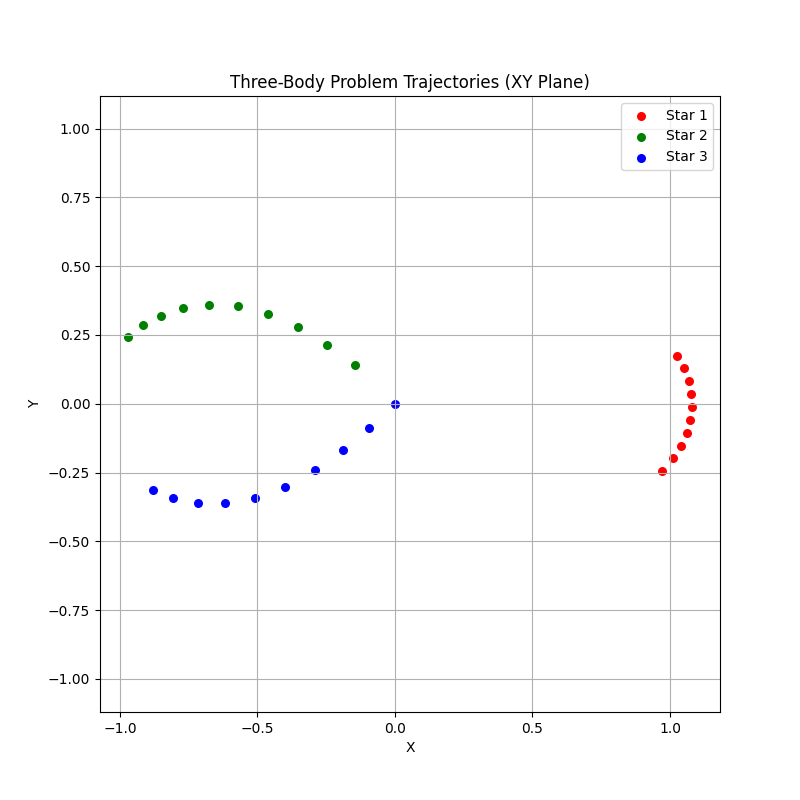
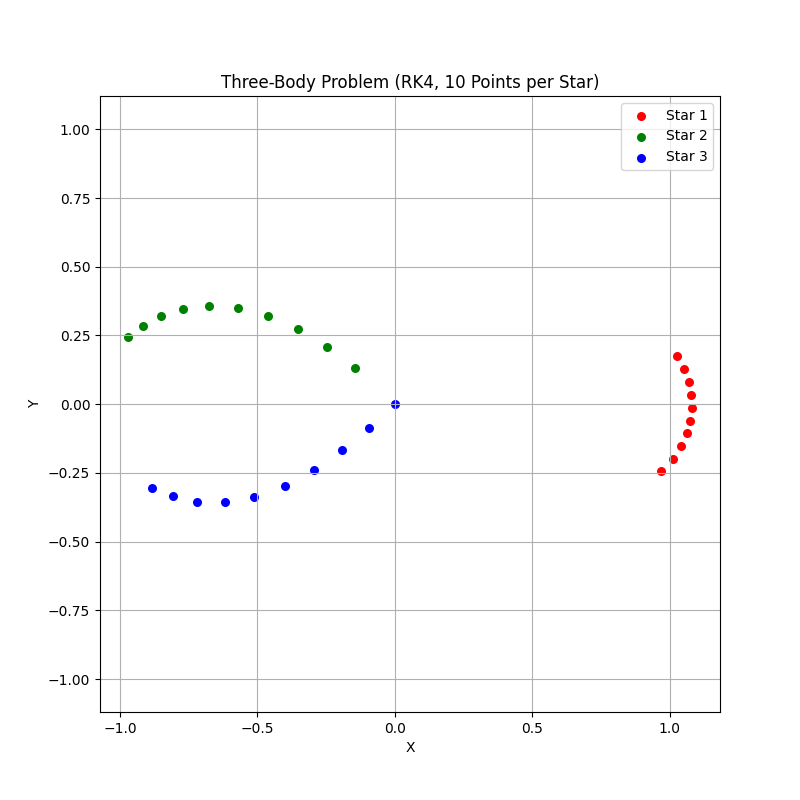
remake to calc by rk4

diff --git a/test_calc.py b/test_calc.py
@@ -23,29 +23,29 @@ def calculate_acceleration(positions, masses, G=1.0):
                 
     return acceleration
 
-def symplectic_step(positions, velocities, masses, dt, G=1.0):
+def rk4_step(positions, velocities, masses, dt, G=1.0):
     """
-    Velocity Verlet法（2次シンプレクティック積分）を用いて、dt秒後の位置と速度を計算します。
-    positions: (N, 3) の配列
-    velocities: (N, 3) の配列
-    masses: (N,) の配列
-    dt: タイムステップ (秒)
-    G: 万有引力定数
+    4次ルンゲ＝クッタ法(RK4)を用いて、dt秒後の位置と速度を計算します。
     """
-    # 1. 現在の加速度を計算
-    acc_t = calculate_acceleration(positions, masses, G)
+    def compute_derivatives(p, v):
+        a = calculate_acceleration(p, masses, G)
+        return v, a
+
+    # k1
+    v1, a1 = compute_derivatives(positions, velocities)
     
-    # 2. 速度を半ステップ進める: v(t + dt/2) = v(t) + a(t) * dt/2
-    velocities_half = velocities + acc_t * (dt / 2.0)
+    # k2
+    v2, a2 = compute_derivatives(positions + v1 * dt / 2, velocities + a1 * dt / 2)
     
-    # 3. 位置を全ステップ進める: q(t + dt) = q(t) + v(t + dt/2) * dt
-    next_positions = positions + velocities_half * dt
+    # k3
+    v3, a3 = compute_derivatives(positions + v2 * dt / 2, velocities + a2 * dt / 2)
     
-    # 4. 新しい位置での加速度を計算: a(t + dt)
-    acc_next = calculate_acceleration(next_positions, masses, G)
+    # k4
+    v4, a4 = compute_derivatives(positions + v3 * dt, velocities + a3 * dt)
     
-    # 5. 速度をさらに半ステップ進める: v(t + dt) = v(t + dt/2) + a(t + dt) * dt/2
-    next_velocities = velocities_half + acc_next * (dt / 2.0)
+    # 次のステップを計算
+    next_positions = positions + (dt / 6.0) * (v1 + 2*v2 + 2*v3 + v4)
+    next_velocities = velocities + (dt / 6.0) * (a1 + 2*a2 + 2*a3 + a4)
     
     return next_positions, next_velocities
 
@@ -79,7 +79,7 @@ if __name__ == "__main__":
     # シミュレーション実行
     curr_p, curr_v = positions, velocities
     for _ in range(total_steps - 1):
-        curr_p, curr_v = symplectic_step(curr_p, curr_v, masses, dt)
+        curr_p, curr_v = rk4_step(curr_p, curr_v, masses, dt)
         history.append(curr_p.copy())
     
     history = np.array(history) # (steps, bodies, coordinates)
@@ -93,7 +93,7 @@ if __name__ == "__main__":
         # 軌跡（線）ではなく、点を描画
         plt.scatter(history[:, i, 0], history[:, i, 1], color=colors[i], label=labels[i], s=30)
 
-    plt.title("Three-Body Problem Trajectories (XY Plane)")
+    plt.title("Three-Body Problem (RK4, 10 Points per Star)")
     plt.xlabel("X")
     plt.ylabel("Y")
     plt.legend()
